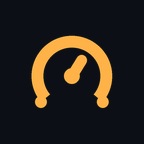
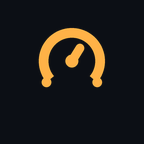
feat: soigner le rendu des touches et du panneau de configuration
Le panneau etait illisible : mes champs et boutons bruts heritaient des couleurs par defaut du navigateur, texte sombre sur fond sombre. Ils s appuient desormais sur les variables de theme de sdpi-components (--window-bg-color, --input-bg-color, --font-color...) relevees dans son code, et suivront donc le theme de Stream Deck au lieu de jurer avec. Les appareils trouves deviennent de petites surfaces plutot qu une liste de lignes, et le bouton de recherche est le seul teinte, pour qu on sache ou cliquer.

Sur les touches, Stream Deck dessine le titre PAR DESSUS l image : glyphe centre et texte centre se percutaient. Le glyphe remonte a 40 % de hauteur et retrecit, le titre passe en alignement bas.

La bascule gagne surtout DEUX ETATS, avec deux images : ampoule grise eteinte, ambre allumee. L etat se lit d un coup d oeil, et le titre disparait — un mot ecrit sur un glyphe etait illisible autant qu inutile. Une molette n ayant pas d etats, elle garde le texte.

Changed region(s): [[0.1944, 0.1944, 0.8056, 0.75]]

diff --git a/com.lumendeck.bulb.sdPlugin/ui/bulbs.js b/com.lumendeck.bulb.sdPlugin/ui/bulbs.js
@@ -24,14 +24,72 @@
   const anchor = document.getElementById('bulb-manager');
   if (!client || !anchor) return;
 
+  // Les couleurs viennent des variables de sdpi-components, jamais de valeurs en
+  // dur : le panneau suit ainsi le theme de Stream Deck au lieu de jurer avec.
+  // Les champs bruts heritaient sinon des defauts du navigateur — texte sombre
+  // sur fond sombre, illisible.
   const css = `
+    #bulb-manager {
+      font-family: var(--font-family, "Segoe UI", sans-serif);
+      font-size: var(--font-size, 12px);
+      color: var(--font-color, #d8d8d8);
+    }
+    #bulb-manager input {
+      flex: 1;
+      min-width: 0;
+      box-sizing: border-box;
+      height: var(--input-height, 24px);
+      padding: 0 8px;
+      background-color: var(--input-bg-color, #3d3d3d);
+      color: var(--input-font-color, #d8d8d8);
+      border: 1px solid rgba(255, 255, 255, .10);
+      border-radius: 4px;
+      outline: none;
+      font-family: inherit;
+      font-size: inherit;
+    }
+    #bulb-manager input::placeholder { color: var(--font-color, #d8d8d8); opacity: .45; }
+    #bulb-manager input:focus { border-color: #ffb247; }
+
+    #bulb-manager button {
+      height: var(--input-height, 24px);
+      padding: 0 12px;
+      background-color: var(--input-bg-color, #3d3d3d);
+      color: var(--input-font-color, #d8d8d8);
+      border: 1px solid rgba(255, 255, 255, .12);
+      border-radius: 4px;
+      cursor: pointer;
+      font-family: inherit;
+      font-size: inherit;
+      white-space: nowrap;
+    }
+    #bulb-manager button:hover:not(:disabled) { border-color: #ffb247; color: #ffb247; }
+    #bulb-manager button:disabled { opacity: var(--opacity-disabled, .5); cursor: default; }
+
+    /* Action principale : la seule teintee, pour qu'on sache ou cliquer. */
+    #bd-scan { background-color: #ffb247; color: #1a1a1a; border-color: transparent; font-weight: 600; }
+    #bd-scan:hover:not(:disabled) { background-color: #ffc474; color: #1a1a1a; }
+
     .bd-row { display: flex; gap: 6px; align-items: center; margin: 6px 0; }
-    .bd-row input { flex: 1; min-width: 0; }
-    .bd-found { border-top: 1px solid rgba(255,255,255,.12); padding-top: 8px; margin-top: 8px; }
-    .bd-id { font-family: monospace; font-size: 11px; opacity: .75; }
-    .bd-note { font-size: 11px; opacity: .7; margin: 6px 0; }
-    .bd-ok { color: #7ddf8f; }
-    .bd-err { color: #ff8a80; }
+
+    /* Chaque appareil trouve est une petite surface, pas une ligne de plus. */
+    .bd-found {
+      background: rgba(255, 255, 255, .04);
+      border: 1px solid rgba(255, 255, 255, .08);
+      border-radius: 6px;
+      padding: 8px 10px;
+      margin-top: 8px;
+    }
+    .bd-id {
+      font-family: ui-monospace, Consolas, monospace;
+      font-size: 11px;
+      opacity: .7;
+      word-break: break-all;
+      margin-bottom: 4px;
+    }
+    .bd-note { font-size: 11px; opacity: .72; margin: 6px 0; line-height: 1.45; }
+    .bd-ok { color: #7ddf8f; opacity: 1; }
+    .bd-err { color: #ff8a80; opacity: 1; }
   `;
 
   anchor.innerHTML =

diff --git a/src/actions/toggle.ts b/src/actions/toggle.ts
@@ -16,7 +16,29 @@ import { withRetry } from '../driver/pool.js';
 import { coordinatesFor } from '../bulbs.js';
 import type { BulbSettings } from '../settings.js';
 
-type Paintable = { setTitle(title: string): Promise<void>; showAlert(): Promise<void> };
+type Paintable = {
+  setTitle(title: string): Promise<void>;
+  showAlert(): Promise<void>;
+  /** N'existe que sur une touche : une molette n'a pas d'etats. */
+  setState?: (state: number) => Promise<void>;
+};
+
+/**
+ * Reporte l'etat sur la touche.
+ *
+ * Par l'IMAGE quand c'est possible : Stream Deck dessine le titre par dessus
+ * l'image, et un mot ecrit sur un glyphe est illisible autant qu'inutile — une
+ * ampoule qui s'allume visuellement dit la meme chose, mieux. Sur une molette,
+ * qui n'a pas d'etats, le texte reste le seul canal.
+ */
+async function paint(target: Paintable, on: boolean): Promise<void> {
+  if (typeof target.setState === 'function') {
+    await target.setState(on ? 1 : 0);
+    await target.setTitle('');
+    return;
+  }
+  await target.setTitle(on ? 'Allumee' : 'Eteinte');
+}
 
 @action({ UUID: 'com.lumendeck.bulb.toggle' })
 export class ToggleBulb extends SingletonAction<BulbSettings> {
@@ -38,7 +60,7 @@ export class ToggleBulb extends SingletonAction<BulbSettings> {
     if (!coords) { await target.setTitle('A regler'); return; }
     try {
       const on = await withRetry(coords, (bulb) => bulb.togglePower());
-      await target.setTitle(on ? 'Allumee' : 'Eteinte');
+      await paint(target, on);
     } catch {
       await target.showAlert();
     }
@@ -50,7 +72,7 @@ export class ToggleBulb extends SingletonAction<BulbSettings> {
     if (!coords) { await target.setTitle('A regler'); return; }
     try {
       const state = await withRetry(coords, (bulb) => bulb.read());
-      await target.setTitle(state.on ? 'Allumee' : 'Eteinte');
+      await paint(target, state.on);
     } catch {
       await target.setTitle('Hors ligne');
     }

diff --git a/tools/make_icons.py b/tools/make_icons.py
@@ -1,6 +1,6 @@
 """Genere toutes les icones du plugin LumenDeck.
 
-Ce que fait ce script : produire les 12 PNG attendus par Stream Deck a partir
+Ce que fait ce script : produire les 24 PNG attendus par Stream Deck a partir
 d'un dessin decrit en code. Les icones sont reproductibles et modifiables sans
 logiciel de dessin, et on ne versionne pas des binaires opaques.
 
@@ -45,10 +45,17 @@ SS = 4  # facteur de sur-echantillonnage
 INK = (12, 15, 21)  # fond des faces de touche, quasi noir
 AMBER = (255, 178, 71)  # accent : la lumiere, sujet du plugin
 BONE = (201, 205, 212)  # gris des listes, cale sur celui d'Elgato
+DIM = (92, 100, 112)    # ampoule eteinte : presente mais visiblement inerte
 
 # Part de la largeur occupee par le glyphe. Le reste est de la marge.
-CONTENT_KEY = 0.56
+# La face de touche est plus modeste que l'icone de liste : Stream Deck ecrit le
+# titre de l'action par dessus, il faut lui laisser le bas de la touche.
+CONTENT_KEY = 0.46
 CONTENT_LIST = 0.64
+
+# Hauteur du centre du glyphe sur une face de touche. Remonte a 40 % pour
+# degager la bande basse ou s'affiche le titre.
+KEY_CENTER_Y = 0.40
 
 # En dessous de ce seuil, on dessine la version simplifiee du glyphe.
 DETAIL_THRESHOLD = 32
@@ -183,11 +190,15 @@ def glyph_temperature(d: ImageDraw.ImageDraw, s: int, color, detailed: bool) -> 
 # --- Fabrication ------------------------------------------------------------
 
 
-def fit(layer: Image.Image, size: int, content: float) -> Image.Image:
+def fit(layer: Image.Image, size: int, content: float, center_y: float = 0.5) -> Image.Image:
     """Recadre sur le contenu reel, puis inscrit dans une boite de marge fixe.
 
     C'est ce qui garantit la meme respiration a tous les glyphes, quels que
     soient leurs debordements propres.
+
+    `center_y` remonte le glyphe. Stream Deck dessine le titre de l'action PAR
+    DESSUS l'image de la touche ; un glyphe centre et un texte centre se
+    percutent. On lui laisse donc le bas de la touche.
     """
     bbox = layer.getbbox()
     if bbox is None:
@@ -199,18 +210,19 @@ def fit(layer: Image.Image, size: int, content: float) -> Image.Image:
     new = (max(1, round(cropped.width * scale)), max(1, round(cropped.height * scale)))
     cropped = cropped.resize(new, Image.Resampling.LANCZOS)
 
-    out = canvas(size * SS)
-    out.alpha_composite(cropped, ((size * SS - new[0]) // 2, (size * SS - new[1]) // 2))
+    full = size * SS
+    out = canvas(full)
+    out.alpha_composite(cropped, ((full - new[0]) // 2, max(0, round(full * center_y - new[1] / 2))))
     return out.resize((size, size), Image.Resampling.LANCZOS)
 
 
-def key_face(size: int, glyph) -> Image.Image:
-    """Face de touche : carre plein quasi noir, glyphe ambre centre."""
+def key_face(size: int, glyph, color=AMBER, center_y: float = KEY_CENTER_Y) -> Image.Image:
+    """Face de touche : carre plein quasi noir, glyphe remonte pour laisser le titre."""
     s = size * SS
     layer = canvas(s)
-    glyph(ImageDraw.Draw(layer), s, AMBER + (255,), size >= DETAIL_THRESHOLD)
+    glyph(ImageDraw.Draw(layer), s, color + (255,), size >= DETAIL_THRESHOLD)
     img = canvas(size, INK + (255,))
-    img.alpha_composite(fit(layer, size, CONTENT_KEY))
+    img.alpha_composite(fit(layer, size, CONTENT_KEY, center_y))
     return img
 
 
@@ -244,9 +256,15 @@ def main() -> None:
     for size, suffix in ((20, ""), (40, "@2x")):
         for name, glyph in actions:
             write(list_icon(size, glyph), "actions", name, "icon{}.png".format(suffix))
+
     for size, suffix in ((72, ""), (144, "@2x")):
         for name, glyph in actions:
             write(key_face(size, glyph), "actions", name, "key{}.png".format(suffix))
+
+        # La bascule a DEUX etats. Une ampoule qui s'allume visuellement dit ce
+        # qu'un mot ecrit par dessus l'image disait mal.
+        write(key_face(size, glyph_bulb, DIM), "actions", "toggle", "key-off{}.png".format(suffix))
+        write(key_face(size, glyph_bulb, AMBER), "actions", "toggle", "key-on{}.png".format(suffix))
 
 
 if __name__ == "__main__":

diff --git a/docs/architecture.md b/docs/architecture.md
@@ -74,7 +74,7 @@ l'existence de Tuya.
 | `src/settings.ts` | Formes des réglages d'une touche. Une touche ne retient que l'**identifiant** de l'ampoule qu'elle pilote, plus ce qui lui est propre. |
 | `src/plugin.ts` | Racine de composition. |
 | `src/tools/probe.mjs` | Sonde de diagnostic : relève les datapoints d'une ampoule. Vit sous `src/` parce qu'il a besoin des dépendances du projet. |
-| `tools/make_icons.py` | Génère les 20 PNG du plugin. Hors chaîne Node, d'où son emplacement séparé. |
+| `tools/make_icons.py` | Génère les 24 PNG du plugin. Hors chaîne Node, d'où son emplacement séparé. |
 
 ## Le contrat `LightDriver`
 
